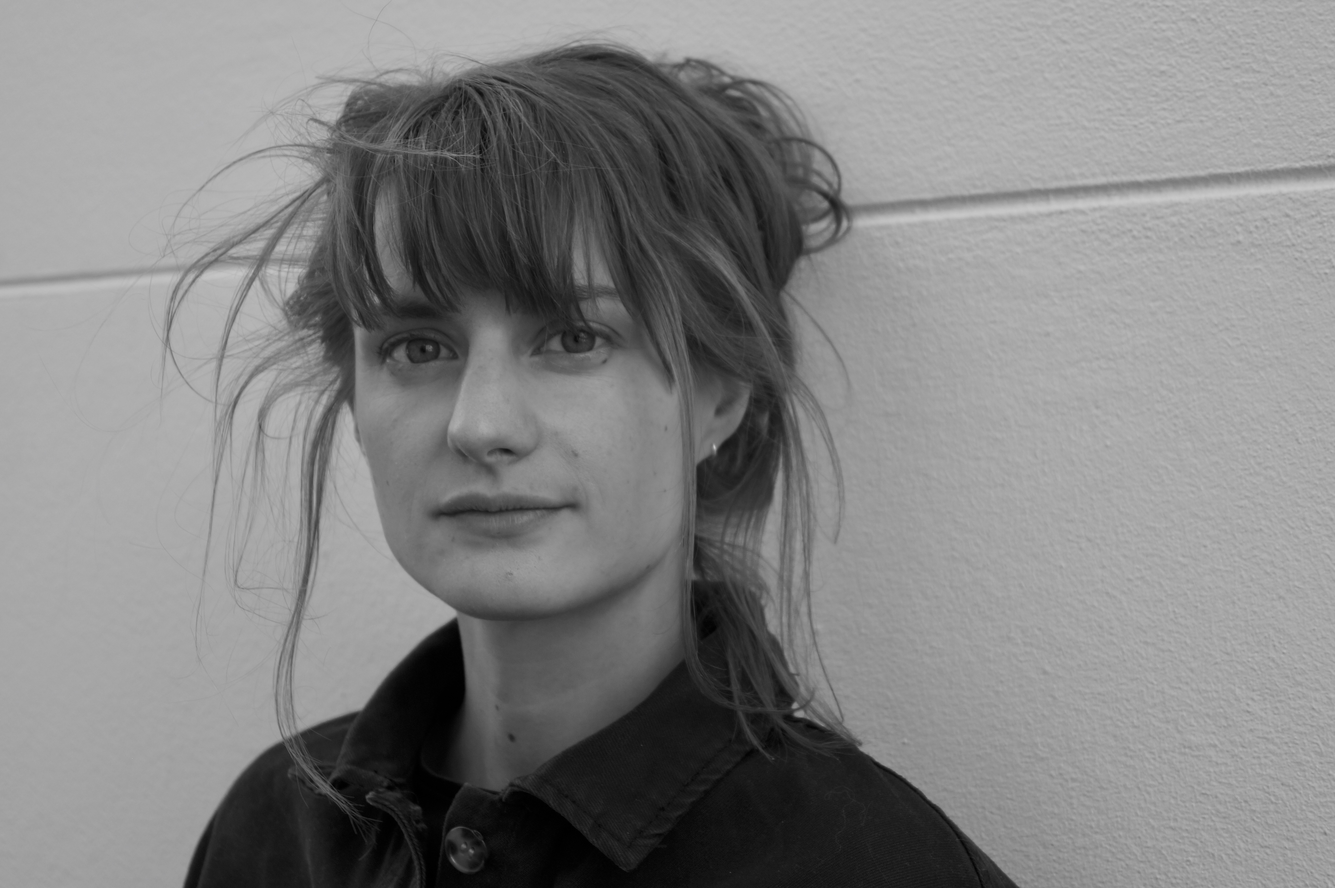
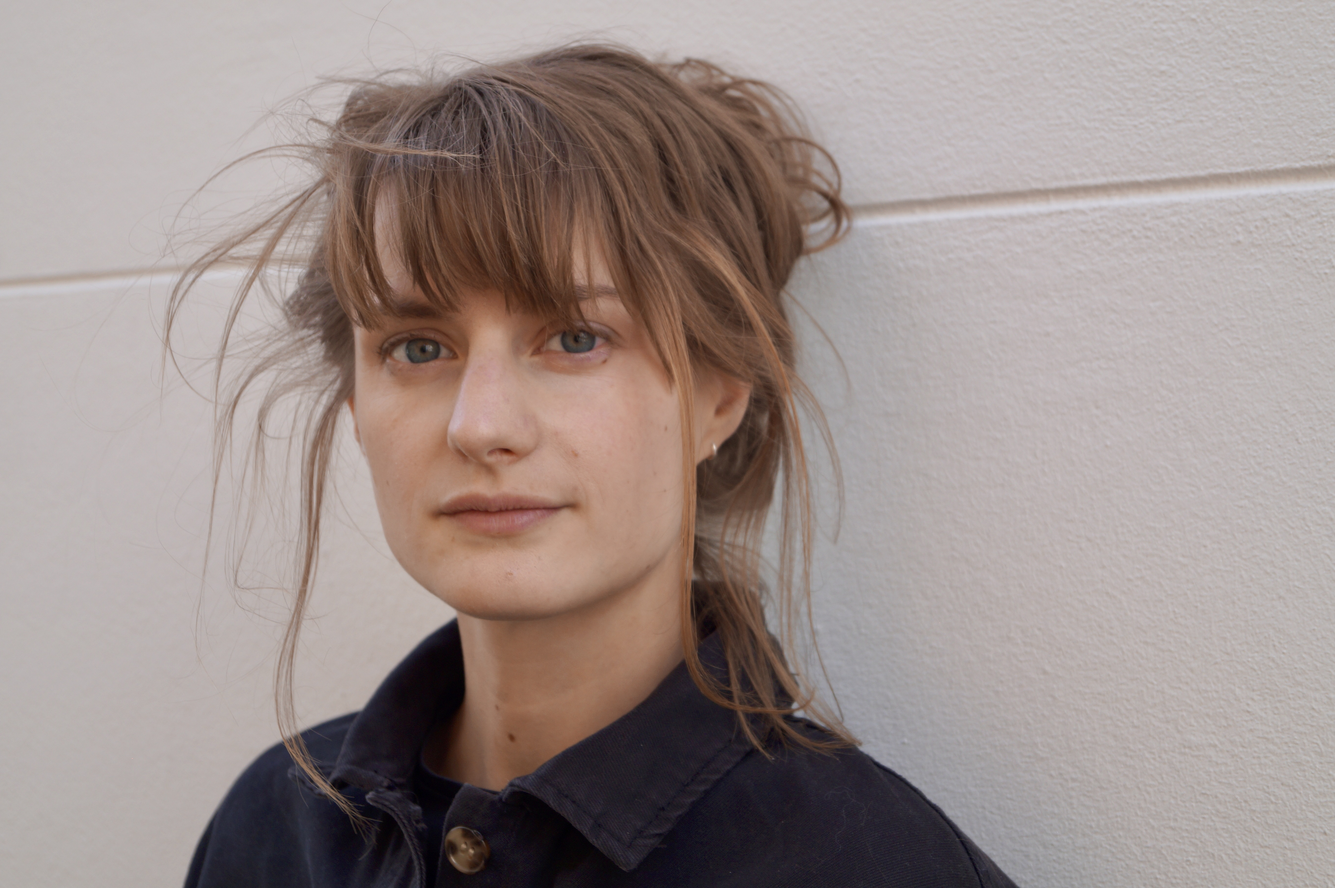
removed page 2, changed font, color, added redactie

diff --git a/custom.scss b/custom.scss
@@ -9,6 +9,8 @@ a, u {
 }
 
 
+/*
 img {
-  #border: 2px solid black;
+  border: 2px solid black;
 }
+*/
